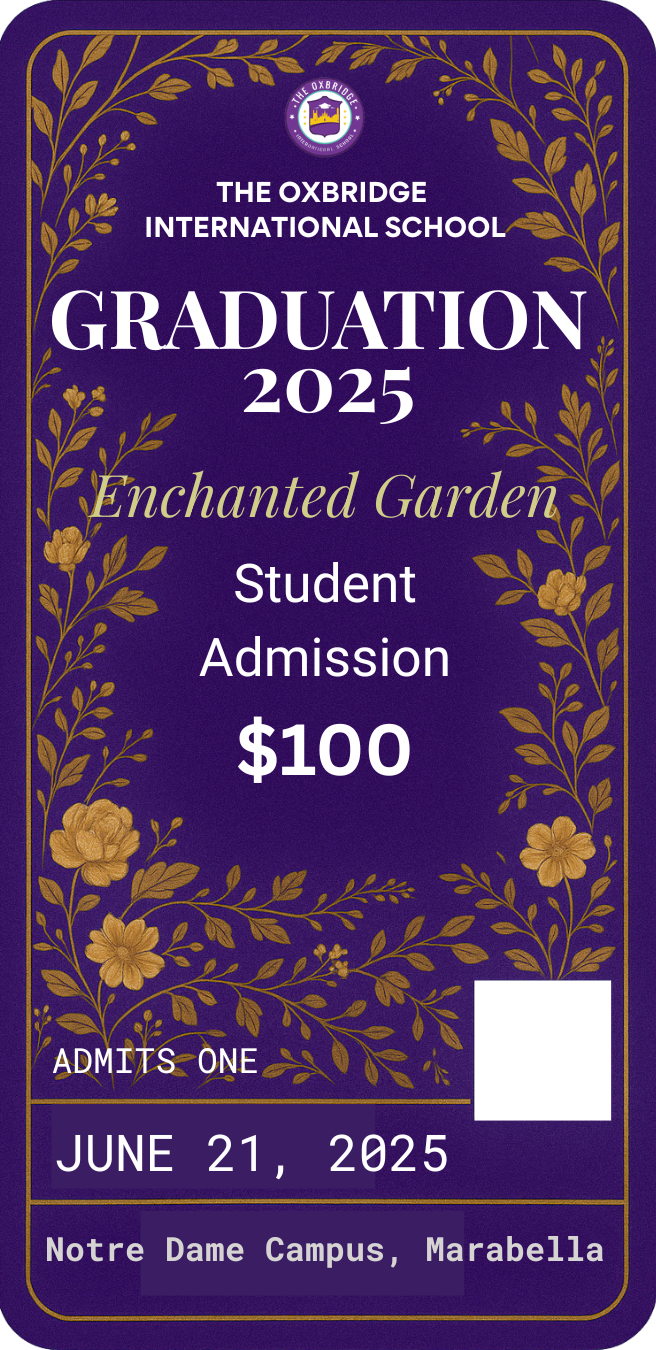
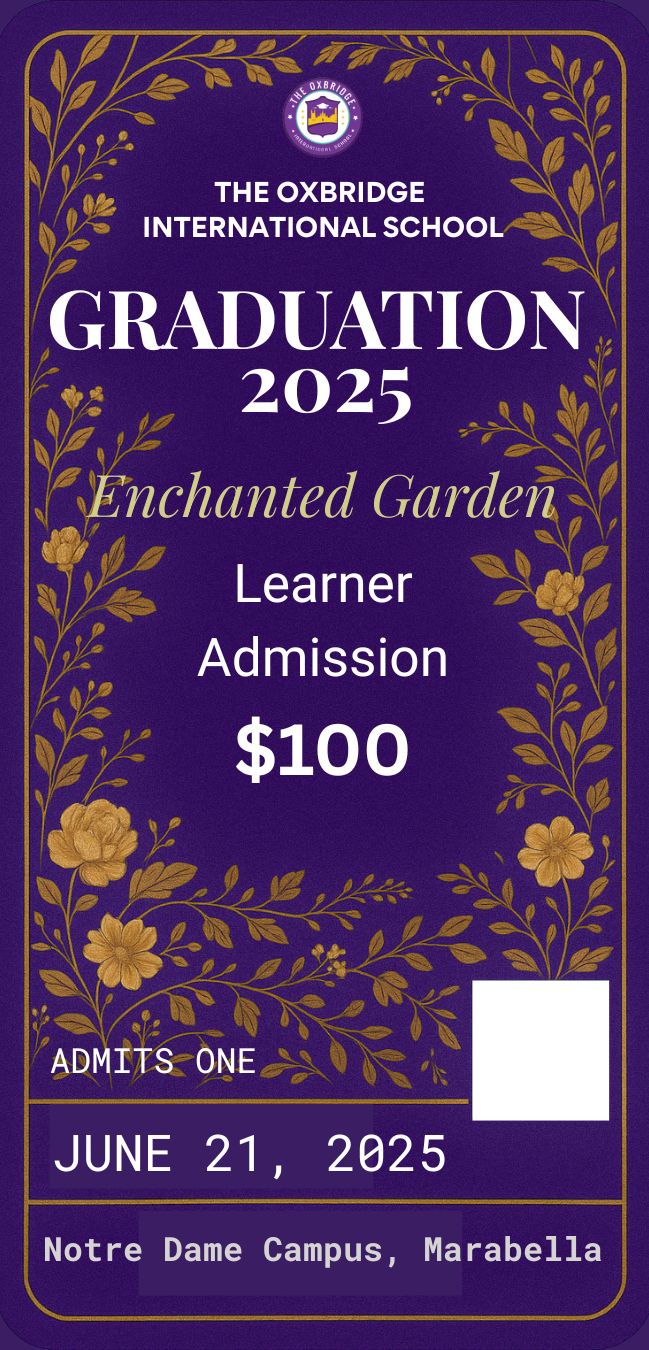
Rename students to learners

diff --git a/tickets/templates/tickets/new_order.html b/tickets/templates/tickets/new_order.html
@@ -196,7 +196,7 @@
 							<option value="p">Parent</option>
 							<option value="g">Graduating (Grades 9, 11, 12, 13)</option>
 							<option value="ge">Graduating - Early Years</option>
-							<option value="ng">Non-Graduating Students</option>
+							<option value="ng">Non-Graduating Learner</option>
 							<option value="d">Graduand's Plus One</option>
 						</select>
 					</div>

diff --git a/static/js/pages/addOrder.js b/static/js/pages/addOrder.js
@@ -51,7 +51,7 @@ const addTicket = () => {
 				break;
 
 			case 'ng':
-				text = 'Non Graduating Student';
+				text = 'Non Graduating Learner';
 				price = 100;
 				break;
 

diff --git a/tickets/models.py b/tickets/models.py
@@ -37,7 +37,7 @@ class Ticket(models.Model):
 		("p", "Parent"),
 		("g", "Graduate"),
 		("ge", "Early Years Graduate"),
-		("ng", "Student"),
+		("ng", "Learner"),
 		("d", "Plus One"),
 	)
 
